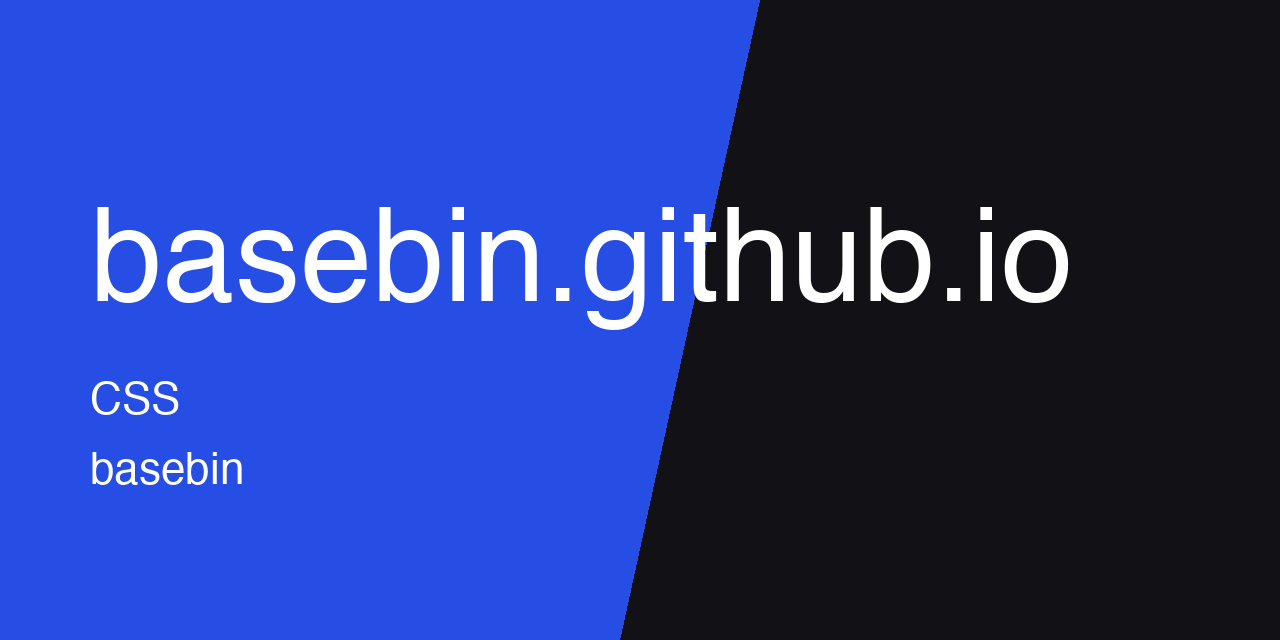
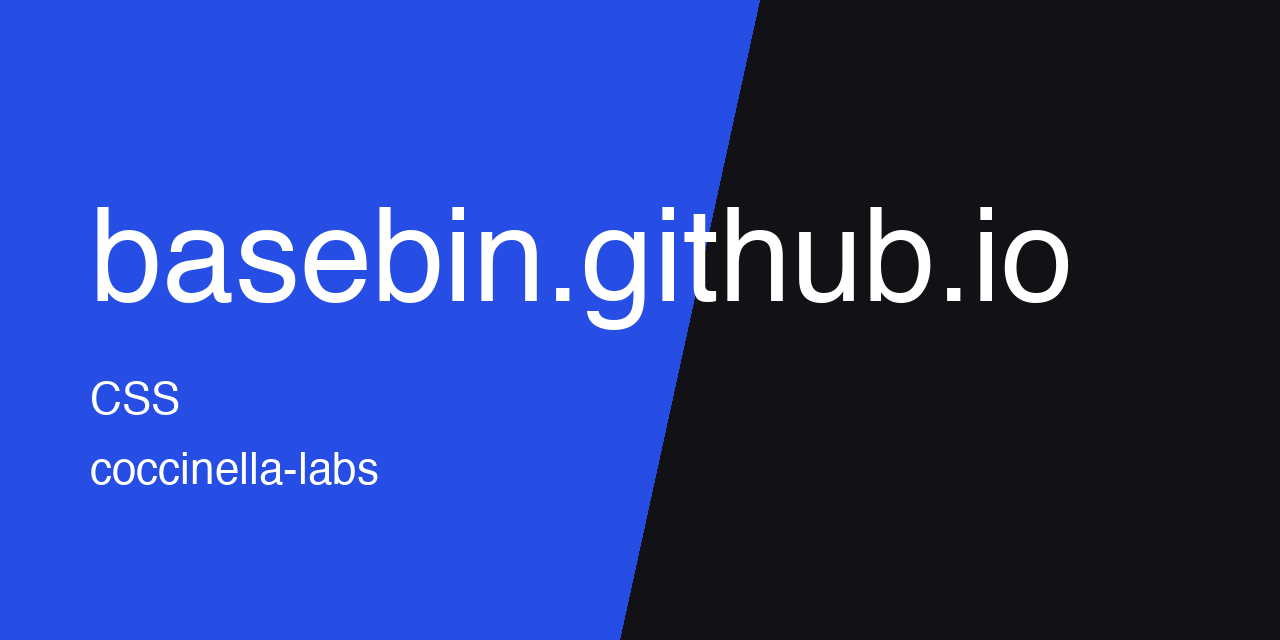
[docs] move thumbnail to coccinella-labs

Changed region(s): [[0.0625, 0.7188, 0.3125, 0.7812]]

diff --git a/README.md b/README.md
@@ -1,5 +1,5 @@
 <p align="center">
-  <img src="https://raw.githubusercontent.com/basebin/basebin.github.io/main/.github/assets/thumbnail.png" alt="basebin.github.io" width="100%">
+  <img src="https://raw.githubusercontent.com/Coccinella-Labs/basebin.github.io/main/.github/assets/thumbnail.png" alt="basebin.github.io" width="100%">
 </p>
 
 public tree.
